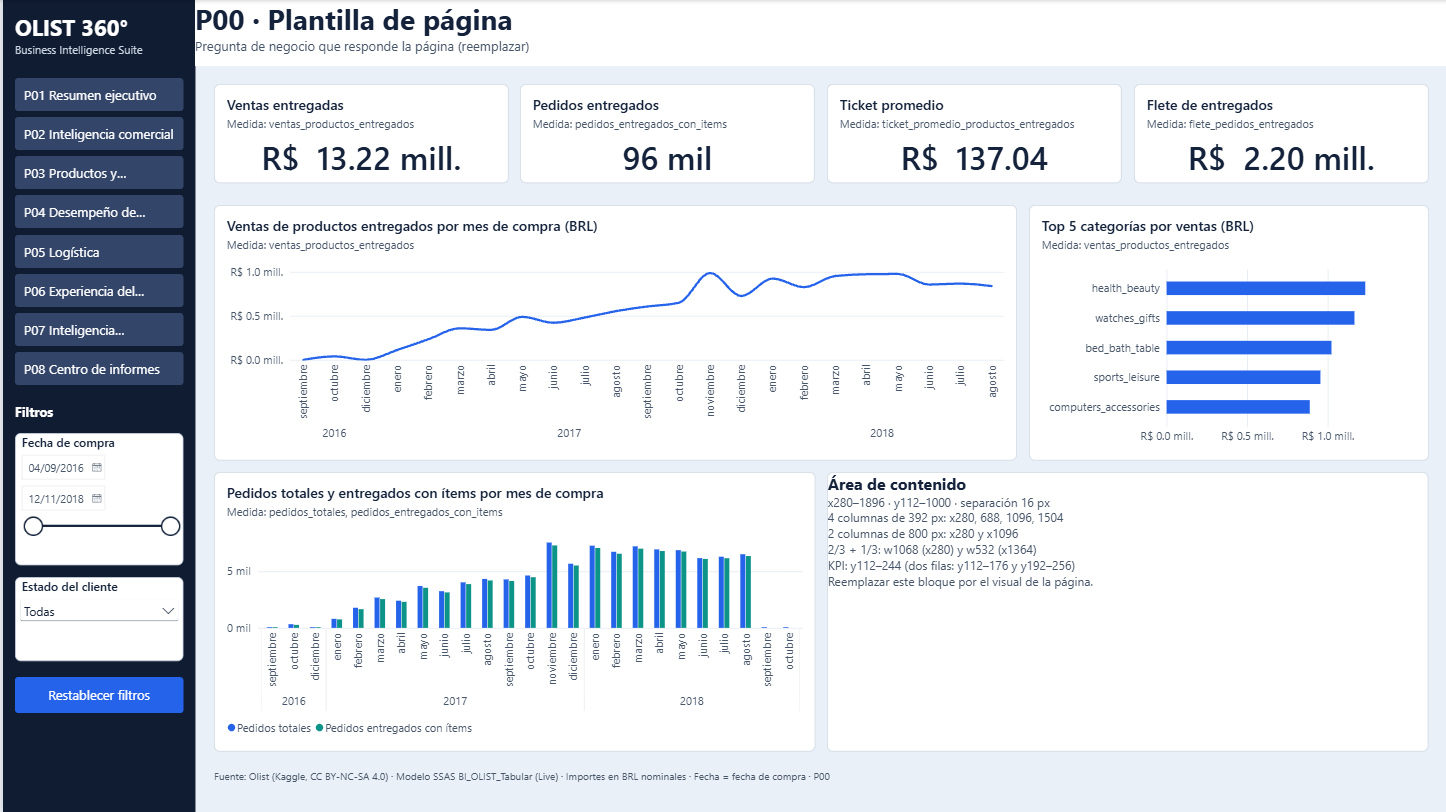
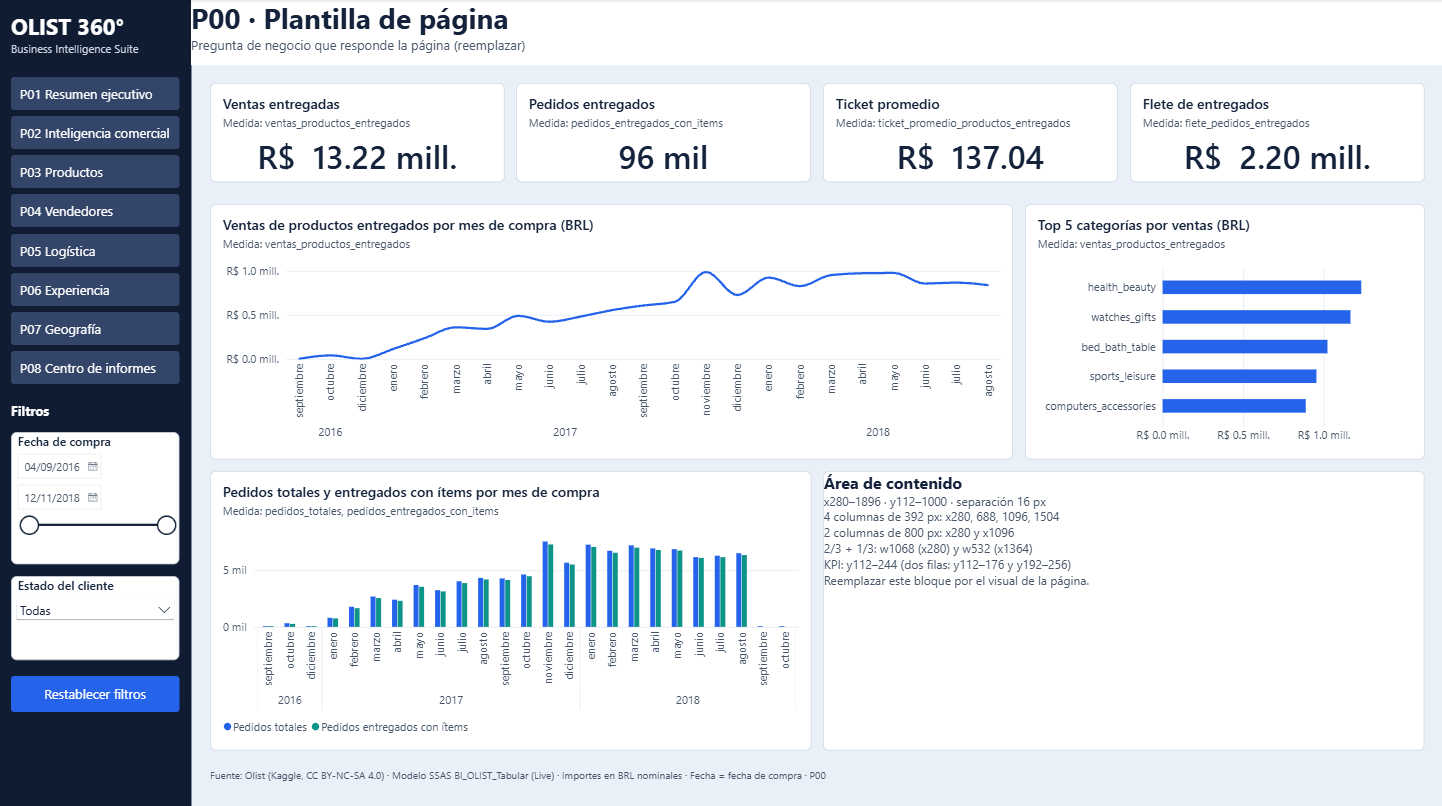
Corrige el menú y documenta la prueba de restablecer filtros (A01)

diff --git a/powerbi/evidencias/nivel-2/A01.md b/powerbi/evidencias/nivel-2/A01.md
@@ -2,7 +2,7 @@
 
 **Resultado: implementado, pendiente de aprobación `C02`** · 26/11/2026 (UTC−05:00, Lima) · Responsable `luisdem01` · Rama `angel/nivel-2-powerbi` · HEAD `115ad784d3a059bc696e5fd37635b497f2a8f629`.
 
-Entregables: [tema `olist360.json`](../../themes/olist360.json), [plantilla `OLIST360_Plantilla.pbip`](../../diseno/) y [guía de uso](../../diseno/README.md). Las capturas se tomaron después del commit `115ad78` con la plantilla abierta y guardada en Power BI Desktop. El guardado no produjo diferencias en los archivos versionados.
+Entregables: [tema `olist360.json`](../../themes/olist360.json), [plantilla `OLIST360_Plantilla.pbip`](../../diseno/) y [guía de uso](../../diseno/README.md). La primera ronda de capturas se tomó sobre `115ad78`. La segunda ronda (P00, retícula y restablecer) se tomó sobre el merge `624082e` con `master` más el cambio de etiquetas del menú, que se incluye en el mismo commit que esta evidencia.
 
 ## Entorno
 
@@ -13,21 +13,24 @@ Windows 11 Pro; Power BI Desktop 2.159.1231.0 (Microsoft Store); SSAS Tabular 17
 | Imagen | Hora | Comprobación | Resultado |
 |---|---|---|---|
 | [A01-tema-importado.png](A01-tema-importado.png) | 20:06:44 | Tema registrado en el informe | `PASS`: *Nombre del tema personalizado* = **OLIST 360** sobre el tema base *Clásico 2026*. Desktop ofrece actualizar el tema base; no se aplicó para no introducir cambios no revisados. |
-| [A01-P00-plantilla.png](A01-P00-plantilla.png) | 20:07:27 | Página `P00 · Plantilla` sin filtros | `PASS`: menú, ocho botones P01–P08, panel de filtros, cabecera, pie, 4 KPI y 3 visuales dentro de la retícula. Los KPI coinciden con el escenario `total` del cotejo: R$ 13,22 M; 96 mil; R$ 137,04; R$ 2,20 M. |
-| [A01-guia-reticula.png](A01-guia-reticula.png) | 20:07:49 | Página `Guía de retícula` | `PASS`: zonas KPI (x280/688/1096/1504, w392), 2/3 + 1/3 (w1068/w532) y 1/2 (w800) sin solapamientos. |
-| [A01-filtros-restablecer.png](A01-filtros-restablecer.png) | 20:08:23 | Segmentador de fecha de compra del 27/03/2017 al 28/04/2018 | `PASS`: los KPI responden al filtro y coinciden con SQL (tabla siguiente). |
+| [A01-P00-plantilla.png](A01-P00-plantilla.png) | 20:45:34 | Página `P00 · Plantilla` sin filtros, con el menú corregido | `PASS`: las ocho opciones del menú se leen completas, sin truncar. Menú, panel de filtros, cabecera, pie, 4 KPI y 3 visuales están dentro de la retícula. Los KPI coinciden con el escenario `total` del cotejo: R$ 13,22 M; 96 mil; R$ 137,04; R$ 2,20 M. |
+| [A01-guia-reticula.png](A01-guia-reticula.png) | 20:47:21 | Página `Guía de retícula` con el menú corregido | `PASS`: zonas KPI (x280/688/1096/1504, w392), 2/3 + 1/3 (w1068/w532) y 1/2 (w800) sin solapamientos. |
+| [A01-restablecer-antes.png](A01-restablecer-antes.png) | 20:44:37 | Fecha de compra del 05/06/2017 al 28/04/2018; estado del cliente en *Todas* | `PASS`: los KPI responden al filtro y coinciden con SQL (tabla siguiente). |
+| [A01-restablecer-despues.png](A01-restablecer-despues.png) | 20:45:34 | Ctrl+clic en *Restablecer filtros* | `PASS` para la fecha: vuelve al rango completo 04/09/2016–12/11/2018 y los KPI vuelven al total R$ 13,22 M; 96 mil; R$ 137,04; R$ 2,20 M. Es la misma captura que `A01-P00-plantilla.png`. |
 | [A01-1366x768.png](A01-1366x768.png) | 20:09:54 | Ventana reducida, zoom 44 % | Observación: *Conexión dinámica: conectada*. Títulos, KPI y menú son legibles, pero el pie y los subtítulos quedan en el límite (ver OBS-3). |
 
 ### Conciliación del filtro de fecha
 
-Consulta en SSMS contra `BI_OLIST.dw` con el mismo filtro (`DimFecha.fecha` entre 2017-03-27 y 2018-04-28, líneas `delivered`):
+Consulta con `sqlcmd` contra `BI_OLIST.dw` con el mismo filtro de `A01-restablecer-antes.png` (`DimFecha.fecha` entre 2017-06-05 y 2018-04-28, líneas `delivered`):
 
 | Medida | SQL | Tarjeta Power BI |
 |---|---:|---:|
-| `ventas_productos_entregados` | 8.939.030,31 | R$ 8.94 mill. |
-| `pedidos_entregados_con_items` | 65.917 | 66 mil |
-| `ticket_promedio_productos_entregados` | 135,610393 | R$ 135.61 |
-| `flete_pedidos_entregados` | 1.470.351,68 | R$ 1.47 mill. |
+| `ventas_productos_entregados` | 7.989.273,97 | R$ 7.99 mill. |
+| `pedidos_entregados_con_items` | 59.219 | 59 mil |
+| `ticket_promedio_productos_entregados` | 134,910653 | R$ 134.91 |
+| `flete_pedidos_entregados` | 1.325.175,03 | R$ 1.33 mill. |
+
+En la primera ronda de capturas, ya reemplazada, también se concilió el rango del 27/03/2017 al 28/04/2018: R$ 8.939.030,31; 65.917; R$ 135,61 y R$ 1.470.351,68.
 
 ## Validaciones
 
@@ -38,8 +41,8 @@ Consulta en SSMS contra `BI_OLIST.dw` con el mismo filtro (`DimFecha.fecha` entr
 
 ## Observaciones para C02
 
-- **OBS-1 · Etiquetas del menú truncadas.** Cuatro botones se cortan con puntos suspensivos a 13 pt en 224 px: *P03 Productos y…*, *P04 Desempeño de…*, *P06 Experiencia del…* y *P07 Inteligencia…*. Opciones: bajar a 11–12 pt, usar nombres cortos (*Productos*, *Vendedores*, *Experiencia*, *Geografía*) o dos líneas.
-- **OBS-2 · Botón *Restablecer filtros*.** La captura muestra el filtro aplicado, pero no el estado posterior al pulsar el botón. Su efecto queda pendiente de evidenciar en `PBI-07`.
+- **OBS-1 · Etiquetas del menú truncadas. Resuelta.** Por indicación de la revisión del PR #19 se cambiaron a *P03 Productos*, *P04 Vendedores*, *P06 Experiencia* y *P07 Geografía* en las dos páginas. Las ocho opciones se leen completas.
+- **OBS-2 · Botón *Restablecer filtros*. Parcial.** Está comprobado con el filtro de fecha: el botón devuelve el rango completo y los KPI al total. La captura previa tiene el estado del cliente en *Todas*, así que no evidencia el restablecimiento de ese segmentador. Falta repetir la prueba con fecha y estado (por ejemplo SP) seleccionados.
 - **OBS-3 · Legibilidad reducida.** La captura a 1366×768 se tomó con la ventana de Desktop reducida, no con una pantalla de esa resolución. El pie (10 pt) y los subtítulos (11 pt) quedan pequeños. Si en el proyector resultan ilegibles, la guía 02 pide aumentarlos.
 - **OBS-4 · Segmentador de estado.** Deja espacio vacío bajo la lista desplegable. Se puede reducir de 112 a unos 72 px si se aprueba.
 - **Decisiones pendientes**, detalladas en [la guía](../../diseno/README.md):

diff --git a/powerbi/diseno/README.md b/powerbi/diseno/README.md
@@ -2,7 +2,10 @@
 
 Responsable Ángel (`@luisdem01`). La aprobación visual de G1 corresponde a Castilla (`C02`). Implementa [02_SISTEMA_DISENO_VISUAL.md](../../docs/nivel-2/02_SISTEMA_DISENO_VISUAL.md) y la configuración de base de [03_ESPECIFICACION_POWER_BI.md](../../docs/nivel-2/03_ESPECIFICACION_POWER_BI.md).
 
-**Estado:** generada, pendiente de importación en Power BI Desktop, capturas y aprobación `C02`. No se declara implementada hasta tener esa evidencia.
+**Estado:** implementada y comprobada en Power BI Desktop el 26-11-2026 con conexión Live y datos reales. Está pendiente de la aprobación final `C02`.
+- El tema **OLIST 360** está importado.
+- La plantilla se abrió en Desktop.
+- Las capturas están en [`powerbi/evidencias/nivel-2/A01.md`](../evidencias/nivel-2/A01.md).
 
 ## Contenido
 
@@ -52,7 +55,7 @@ Tipografía Segoe UI: valores KPI de 32 pt, títulos de visual de 14 pt y etique
 
 ## Componentes
 
-- **Navegación:** ocho botones nativos P01–P08 de 224×44 px con acción *Navegación de página*, el mismo patrón que las entregas de Cueva. El botón de la página actual usa Blue `#2563EB` y los demás `#33466A`. Este tono intermedio entre Navy y Muted no es un token y requiere aprobación C02. En la plantilla los botones no tienen destino, porque las páginas P01–P08 aún no existen. El destino se asigna en el PBIX maestro (A07).
+- **Navegación:** ocho botones nativos P01–P08 de 224×44 px con nombres cortos que se leen completos: *P01 Resumen ejecutivo*, *P02 Inteligencia comercial*, *P03 Productos*, *P04 Vendedores*, *P05 Logística*, *P06 Experiencia*, *P07 Geografía* y *P08 Centro de informes*. Usan la acción *Navegación de página*, el mismo patrón que las entregas de Cueva. El botón de la página actual usa Blue `#2563EB` y los demás `#33466A`. Este tono intermedio entre Navy y Muted no es un token y requiere aprobación C02. En la plantilla los botones no tienen destino, porque las páginas P01–P08 aún no existen. El destino se asigna en el PBIX maestro (A07).
 - **Panel de filtros:** dos segmentadores en el menú. *Fecha de compra* usa `DimFecha[fecha]` en modo entre y *Estado del cliente* usa `customer_state` como lista desplegable. Debajo va el botón **Restablecer filtros**, con la acción nativa *Borrar todas las segmentaciones*, sin marcadores.
 - **Grupos de sincronización:** son un contrato para P01–P07. Cada autor debe conservar estos nombres para que la integración del maestro no pierda la sincronización:
 
@@ -71,9 +74,7 @@ Tipografía Segoe UI: valores KPI de 32 pt, títulos de visual de 14 pt y etique
 3. Cambia el código, el título y la pregunta de la cabecera, y el código del pie. Reemplaza los visuales de ejemplo respetando la retícula.
 4. No pulses *Realizar cambios en este modelo* ni agregues medidas.
 
-## Pendiente de verificar en Desktop
+## Pendiente
 
-- Que el tema quede registrado. Si no, hay que importar `olist360.json` a mano.
-- Que el botón borre los segmentadores.
-- Que el pie y la cabecera no se recorten a 1366×768.
-- Que el panel siga visible permanentemente, en lugar de abrirse y cerrarse con un marcador como sugiere 02. Lo elegí para evitar marcadores con estado de datos que se pierden al integrar páginas. Hay que confirmarlo con C02.
+- **Restablecer filtros con un estado seleccionado.** Comprobado con un rango de fechas: las fechas vuelven al rango completo y los KPI al total. Falta la captura con un estado del cliente seleccionado antes de pulsar el botón.
+- **Legibilidad en una pantalla real de 1366×768 o en el proyector.** La captura disponible es de una ventana de Desktop reducida.
